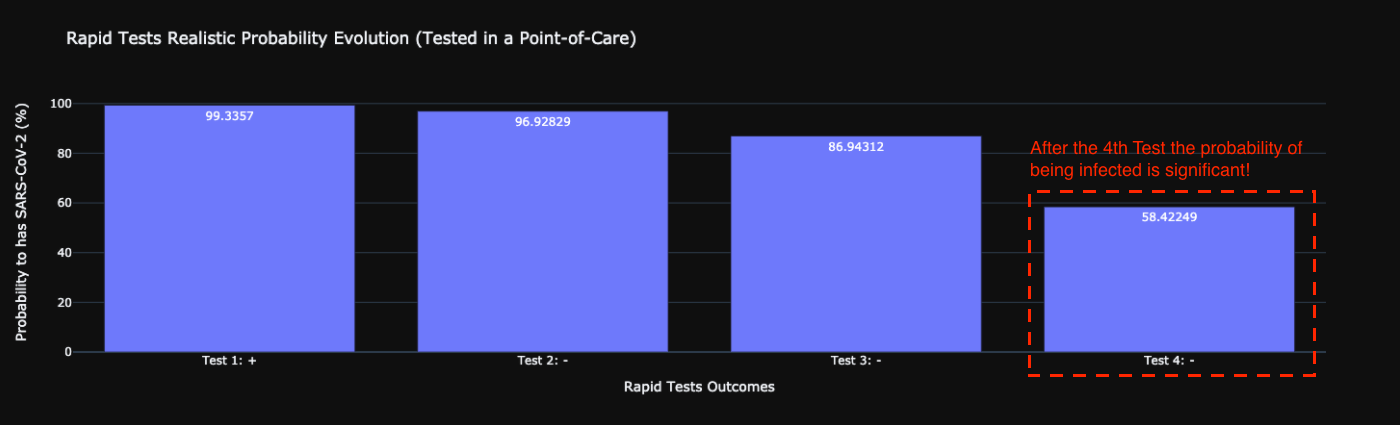
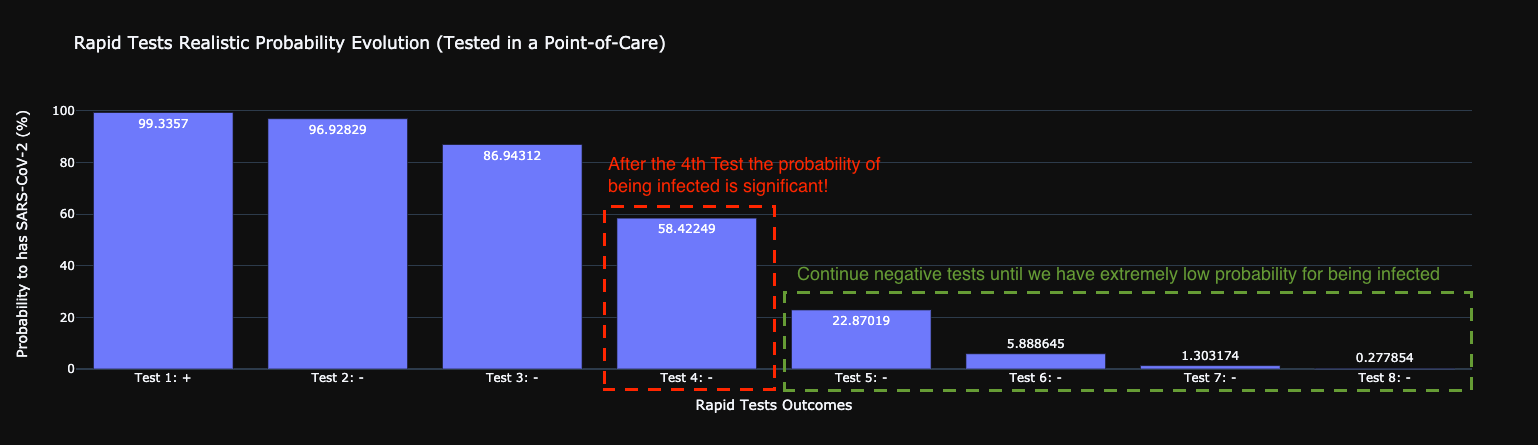
Update README

Changed region(s): [[0.0, 0.2141, 0.9521, 0.9482], [0.0307, 0.0612, 0.4607, 0.1224]]

diff --git a/README.md b/README.md
@@ -1,11 +1,14 @@
 
-The above exercise has been done to highlight the importance of test sampling and how Bayes probabilities go against our intuition.
+The above exercise has been done to highlight the importance of test sampling and how Bayes probabilities go against our intuition. \
+***NOTE:*** *The following analysis is focused on SARS-CoV-2 (COVID-19) Rapid Tests / Antigen Tests but the concept and the maths behind that can easily generallized in other tests.*
 
-# Main Question
-What is the probability someone has SARS-CoV-2 (COVID-19) if he has one positive Rapid test and then only negatives?
+# Questions
+* What is the probability someone has SARS-CoV-2 (COVID-19) if he has one positive Rapid test and then only negatives?
+* If someone do a single test with negative result for SARS-CoV-2 (COVID-19), what is the probability of being infected?
+* What other parameters is affect test results?
 
-## Scenario :syringe:
-The subject runs the following Rapid Tests in a Point-of-Care **(Important: Give attention on that detail)**:
+## Real Life Scenario :syringe:
+Someone (we can call him Jake :man:), runs the following sequential Rapid Tests in a Point-of-Care:
 * Test 1: Positive (+)
 * Test 2: Negative (-)
 * Test 3: Negative (-)
@@ -15,6 +18,13 @@ The subject runs the following Rapid Tests in a Point-of-Care **(Important: Give
 * All the tests take care in the same time.
 * All the tests are from the same brand
     
+
+Now :man: is confused :confused:, he don't know if he is infected or not, have to stay home or not..
+But, :man: has basical statical knowledge and he can estimate the probability of being infected :smiling_imp:
+
+:man: started his analysis by ground the initial probabilities without giving too much attention on them because
+he focused on metrics relationships and not so much on the actual initial values.
+
 ---
 
 ### Rapid Test Performance Metrics
@@ -62,14 +72,14 @@ The population prevelance is calculated with the following formula:
 
 ### 1st Test: Estimate the probability of has SARS-CoV-2 (H1) given a positive test (+)
 ```
-P(H1 | +) = P(+ | H1) * P(H1) / P(+) (Bayes Rule)
+P(H1 | +) = P(+ | H1) x P(H1) / P(+) (Bayes Rule)
 ```
 
 P(H1)     = 0.0186 \
 P(Ho)     = 1 - P(H1) \
 P(+ | H1) = Sensitivity \
 P(+ | Ho) = 1-Specificity \
-P(+)      = TruePositive + FalsePositive = P(+ | H1)*P(H1) + P(+ | Ho)*P(Ho)
+P(+)      = TruePositive + FalsePositive = P(+ | H1) x P(H1) + P(+ | Ho) x P(Ho)
 
 Propability: **P(H1 | +) = 99.45%**
 
@@ -77,14 +87,14 @@ Propability: **P(H1 | +) = 99.45%**
 
 ### 2nd Test: Estimate the probability of has SARS-CoV-2 (H1) given a negative test (-)
 ```
-P(H1 | -) = P(- | H1) * P(H1) / P(-) (Bayes Rule)
+P(H1 | -) = P(- | H1) x P(H1) / P(-) (Bayes Rule)
 ```
 
 P(H1)     = 0.645 (Previous test probability) \
 P(Ho)     = 1 - P(H1) \
 P(- | H1) = 1 - Sensitivity \
 P(- | Ho) = 1 - P(+ | Ho) = 1 - (1-Specificity) = Specificity \
-P(-)      = TrueNegative + FalseNegative = P(- | Ho)*P(Ho) + P(- | H1)*P(H1)
+P(-)      = TrueNegative + FalseNegative = P(- | Ho) x P(Ho) + P(- | H1) x P(H1)
 
 Propability: **P(H1 | -) = 84.39%**
 
@@ -95,10 +105,10 @@ Finally, we have the following probabilities for the four sequential tests:
 ![title](plots/ideal_probabilities.png)
 
 
-xmm... the probability for having SARS-CoV-2 looks very low after 3 sequential negative tests! Yeah no infection!! \
+:man: xmm... the probability for having SARS-CoV-2 looks very low after 3 sequential negative tests! Yeah no infection!! \
 YES this will be the outcome if the experiments have take care by experts in a laboratory environment.
 
-BUT in a Point-of-Care location (e.g. pharmacies, doctor offices, homes,  etc.) the probability of incorrect sampling is high.
+BUT in a Point-of-Care location (e.g. pharmacies, doctor offices, homes,  etc.) the probability of incorrect sampling is high :unamused:.
 
 ---
 ## Re-estimate the probabilities in a Point-of-Care
@@ -135,17 +145,26 @@ How likely is someone has SARS-CoV-2 with only negative outcomes?
 
 ![title](plots/only_negative_outcomes.png)
 
-What?? **0.39%** from the first test? Why so low?
+:flushed: What?? **0.39%** from the first test? Why so low?
 
-## Summarize the results
+## Conclusions
+
 Without a positive test the probability of being infected is extremely low. The reason for that is the "magic" behind Bayes theorem.\
-Without an initial positive test the prior probability is the population prevelence which is quite low (1.86%). \
-On the other hand, with a first positive test the probability of having the desease is quite high (>99%) and the subject needs five or more sequential negative tests to be sure for a negative outcome.
+Without an initial positive test the prior probability is the population prevelence which is quite low (1.86%). On the other hand,  \
+with a first positive test the probability of having the desease is quite high (>99%) and the subject needs five or more sequential \
+negative tests to be sure for a negative outcome.
 
-All the knowledge in three bullets:
-* A positive test is significant and need more that five tests to doubt the positive result.
+In summary, the probability of being infected it depends on:
+* The population infection
+* Test performance metrics (Sensitivity, Specificity)
+* Test location (Laboratory or Point-of-Care) which affects the Test perfomance metrics (Sensitivity, Specificity)
+
+
+All the knowledge in few bullets:
+* A positive test is significant and needs many tests to "cancel" the positive result.
 * If the desease has a low population infection and the first test is negative its probable negative.
-* If the infection of the population is high, then more negative tests needed to prove the no infection
+* If the infection of the population is high, then more negative tests needed to prove the no infection.
+* The location of the test (Laboratory or Point-of-Care) can significally affect the results.
 
 **NOTE: The code and the plots created from the Multiple Rapid Tests Probability Estimation.ipynb**
 
